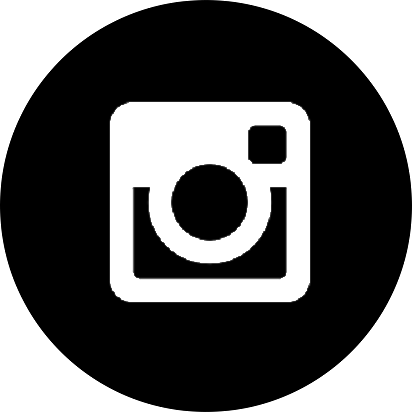
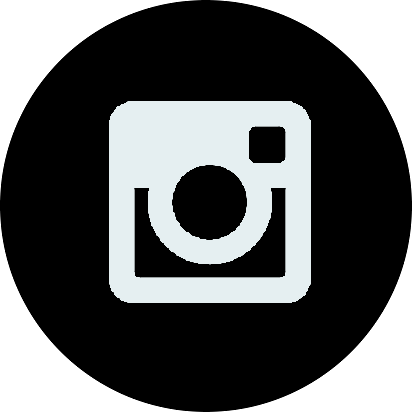
Experimented more with colors

Changed region(s): [[0.2621, 0.233, 0.7573, 0.7573]]

diff --git a/homepage.html b/homepage.html
@@ -12,6 +12,7 @@
 	<script src="js/scroll.js"></script>
 </head>
 <body data-spy="scroll" data-target=".navbar" data-offset="100">
+	<a name="scroll-to-top"></a>
 	<a href="https://facebook.com"><img id="facebook" class="img-circle facebook" style="position:fixed" src="icons/fb copy.png"></a>
 	<a href="https://twitter.com/mhsmakerspace"><img id="twitter" class="img-circle twitter" style="position:fixed" src="icons/twitter copy.png"></a>
 	<a href="https://instagram.com/mhsmakerspace"><img id="instagram" class="img-circle instagram" style="position:fixed" src="icons/alt insta.png"></a>
@@ -35,7 +36,7 @@
 	<div class="contact">
 		<p class="contact">Contact Us:&nbsp;&nbsp;&nbsp;&nbsp;&nbsp;&nbsp;&nbsp;&nbsp;1776 Raritan Road, Scotch Plains, NJ&nbsp;&nbsp;&nbsp;&nbsp;&nbsp;&nbsp;&nbsp;&nbsp;[Phone]&nbsp;&nbsp;&nbsp;&nbsp;&nbsp;&nbsp;&nbsp;&nbsp;[Email]</p>
 	</div>
-	<nav class="navbar navbar-inverse navbar-fixed-top">
+	<nav id="nav" class="navbar navbar-inverse navbar-fixed-top">
 		<div class="container-fluid navbar-custom navbar-inner">
 			<div class="navbar-header">
 				<button type="button" id="button" class="navbar-toggle" data-toggle="collapse" data-target="#myNavbar">
@@ -43,10 +44,10 @@
 					<span class="icon-bar"></span>
 					<span class="icon-bar"></span>
 				</button>
-				<a id="circle" class="circle" href="#"><br>Maker</br><br>Space</br></a>
+				<a id="circle" class="circle" href="#scroll-to-top"><br>Maker</br><br>Space</br></a>
 				<a id="ucvtsLogo" href="http://www.ucvts.org"><img class="ucvtsLogo img-circle" src="logos/ucvtsglobe copy.png"></a>
 				<a id="magnetLogo" href="http://www.ucvts.org/domain/15"><img class="magnetLogo img-circle" src="logos/magnetlogo.png"></a>
-				<a id="main" class="navbar-brand" href="#">MakerSpace</a>
+				<a id="main" class="navbar-brand" href="#scroll-to-top">MakerSpace</a>
 			</div>
 			<div>
 				<div class="collapse navbar-collapse navbar-custom" id="myNavbar">

diff --git a/template.css b/template.css
@@ -36,41 +36,55 @@ nav {
 	box-shadow: 0px 0px 10px black;
 	font-family: 'Enriqueta';
 }
+.navbar {
+	background: rgba(0,0,0,0.75);
+	box-shadow: 0px 0px 0px;
+	border: none;
+}
 .navbar-custom {
-	background:#D35348;
+	background:transparent;
+/*	background:#D35348;*/
 /*	background:#6a4c28;*/
 /*	background:#FFFFF0;*/
 }
 .navbar-custom .nav li a:hover{
     background-color: transparent;
-	color: #fff;
+	color: #F8F8FF;
+}
+.navbar-custom .nav li a:visited{
+    background-color: transparent;
+	color: #999;
 }
 .navbar-custom .nav li.active a:visited {
-	background-color: #be4b41;
+	background-color: #222;
 /*	background-color: #5b4122;*/
-	color: #ffc1bc;
+	color: #999;
+/*	color: #ffc1bc;*/
 /*	color: #e0caaf;*/
     transition: 1s;
 }
 
 .navbar-custom .nav li.active a:hover {
-	background-color: #be4b41;
+/*	background-color: #be4b41;*/
+	background-color: #333;
 /*	background-color: #5b4122;*/
-	color: #fff;
+	color: #F8F8FF;
 }
 .navbar>.container .navbar-brand, .navbar>.container-fluid .navbar-brand {
 	font-variant: small-caps;
     margin-left: 0px;
-	color: #ffc1bc;
+	color: #999;
+/*	color: #ffc1bc;*/
 /*	color: #e0caaf;*/
 }
 .navbar-inverse .navbar-brand:hover {
-    color: #fff;
+    color: #F8F8FF;
     background-color: transparent;
     transition: 1s;
 }
 .navbar-inverse .navbar-nav>li>a {
-	color: #ffc1bc;
+	color: #999;
+/*	color: #ffc1bc;*/
 /*	color: #e0caaf;*/
     transition: 1s;
 }
@@ -166,7 +180,6 @@ p.contact {
 	left:3vw;
 	width:3vw;
 	height:3vw;
-	background-color: #AAA;
 	transition:0.5s;
 }
 .twitter {
@@ -174,7 +187,6 @@ p.contact {
 	left:5.5vw;
 	width:3vw;
 	height:3vw;
-	background-color: #AAA;
 	transition:0.5s;
 }
 .instagram {
@@ -182,7 +194,6 @@ p.contact {
 	left:9vw;
 	width:3vw;
 	height:3vw;
-	background-color: #AAA;
 	transition:0.5s;
 }
 .mail {
@@ -190,7 +201,6 @@ p.contact {
 	left:13vw;
 	width:3vw;
 	height:3vw;
-	background-color: #AAA;
 	transition:0.5s;
 }
 

diff --git a/js/scroll.js b/js/scroll.js
@@ -14,7 +14,7 @@ $(function() {
 });
 $(window).scroll(function() {
 	if ($(window).width() > 768) {
-		if ($(document).scrollTop() > $(window).height()-50) {
+		if ($(document).scrollTop() > $(window).height()) {
 			$("#circle").fadeOut("fast");
 			$("#ucvtsLogo").fadeOut("fast");
 			$("#magnetLogo").fadeOut("fast");
